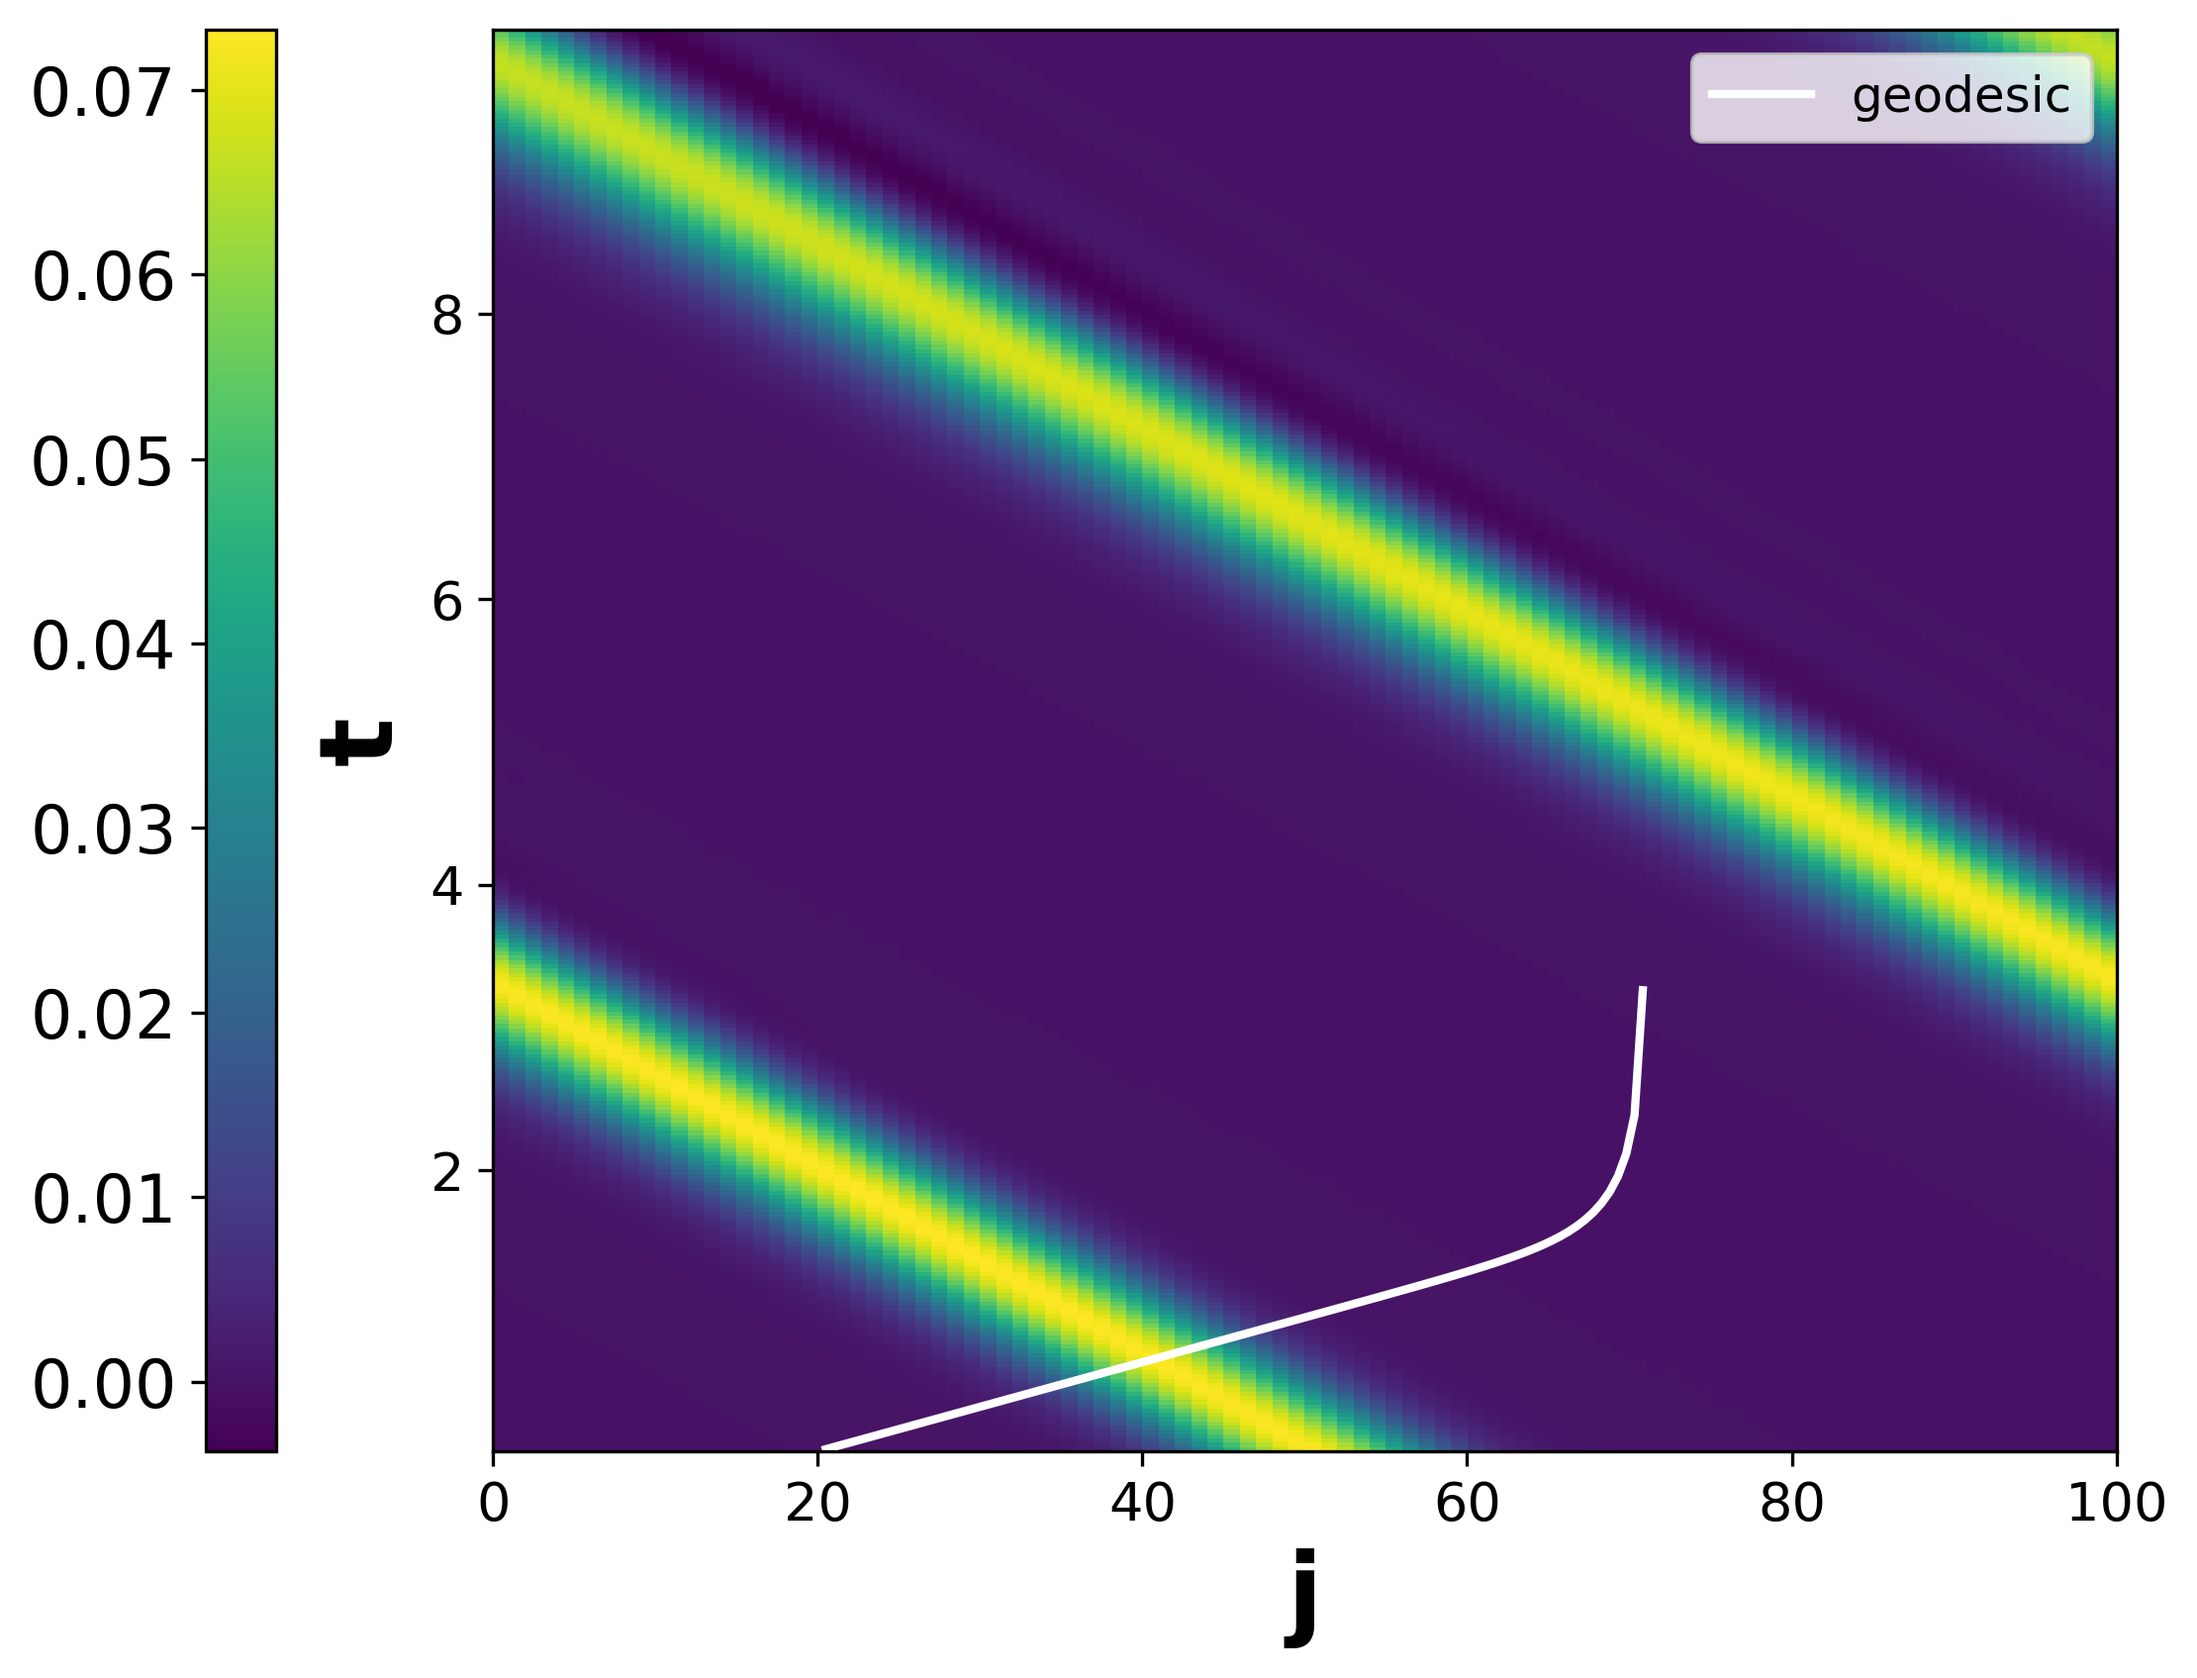
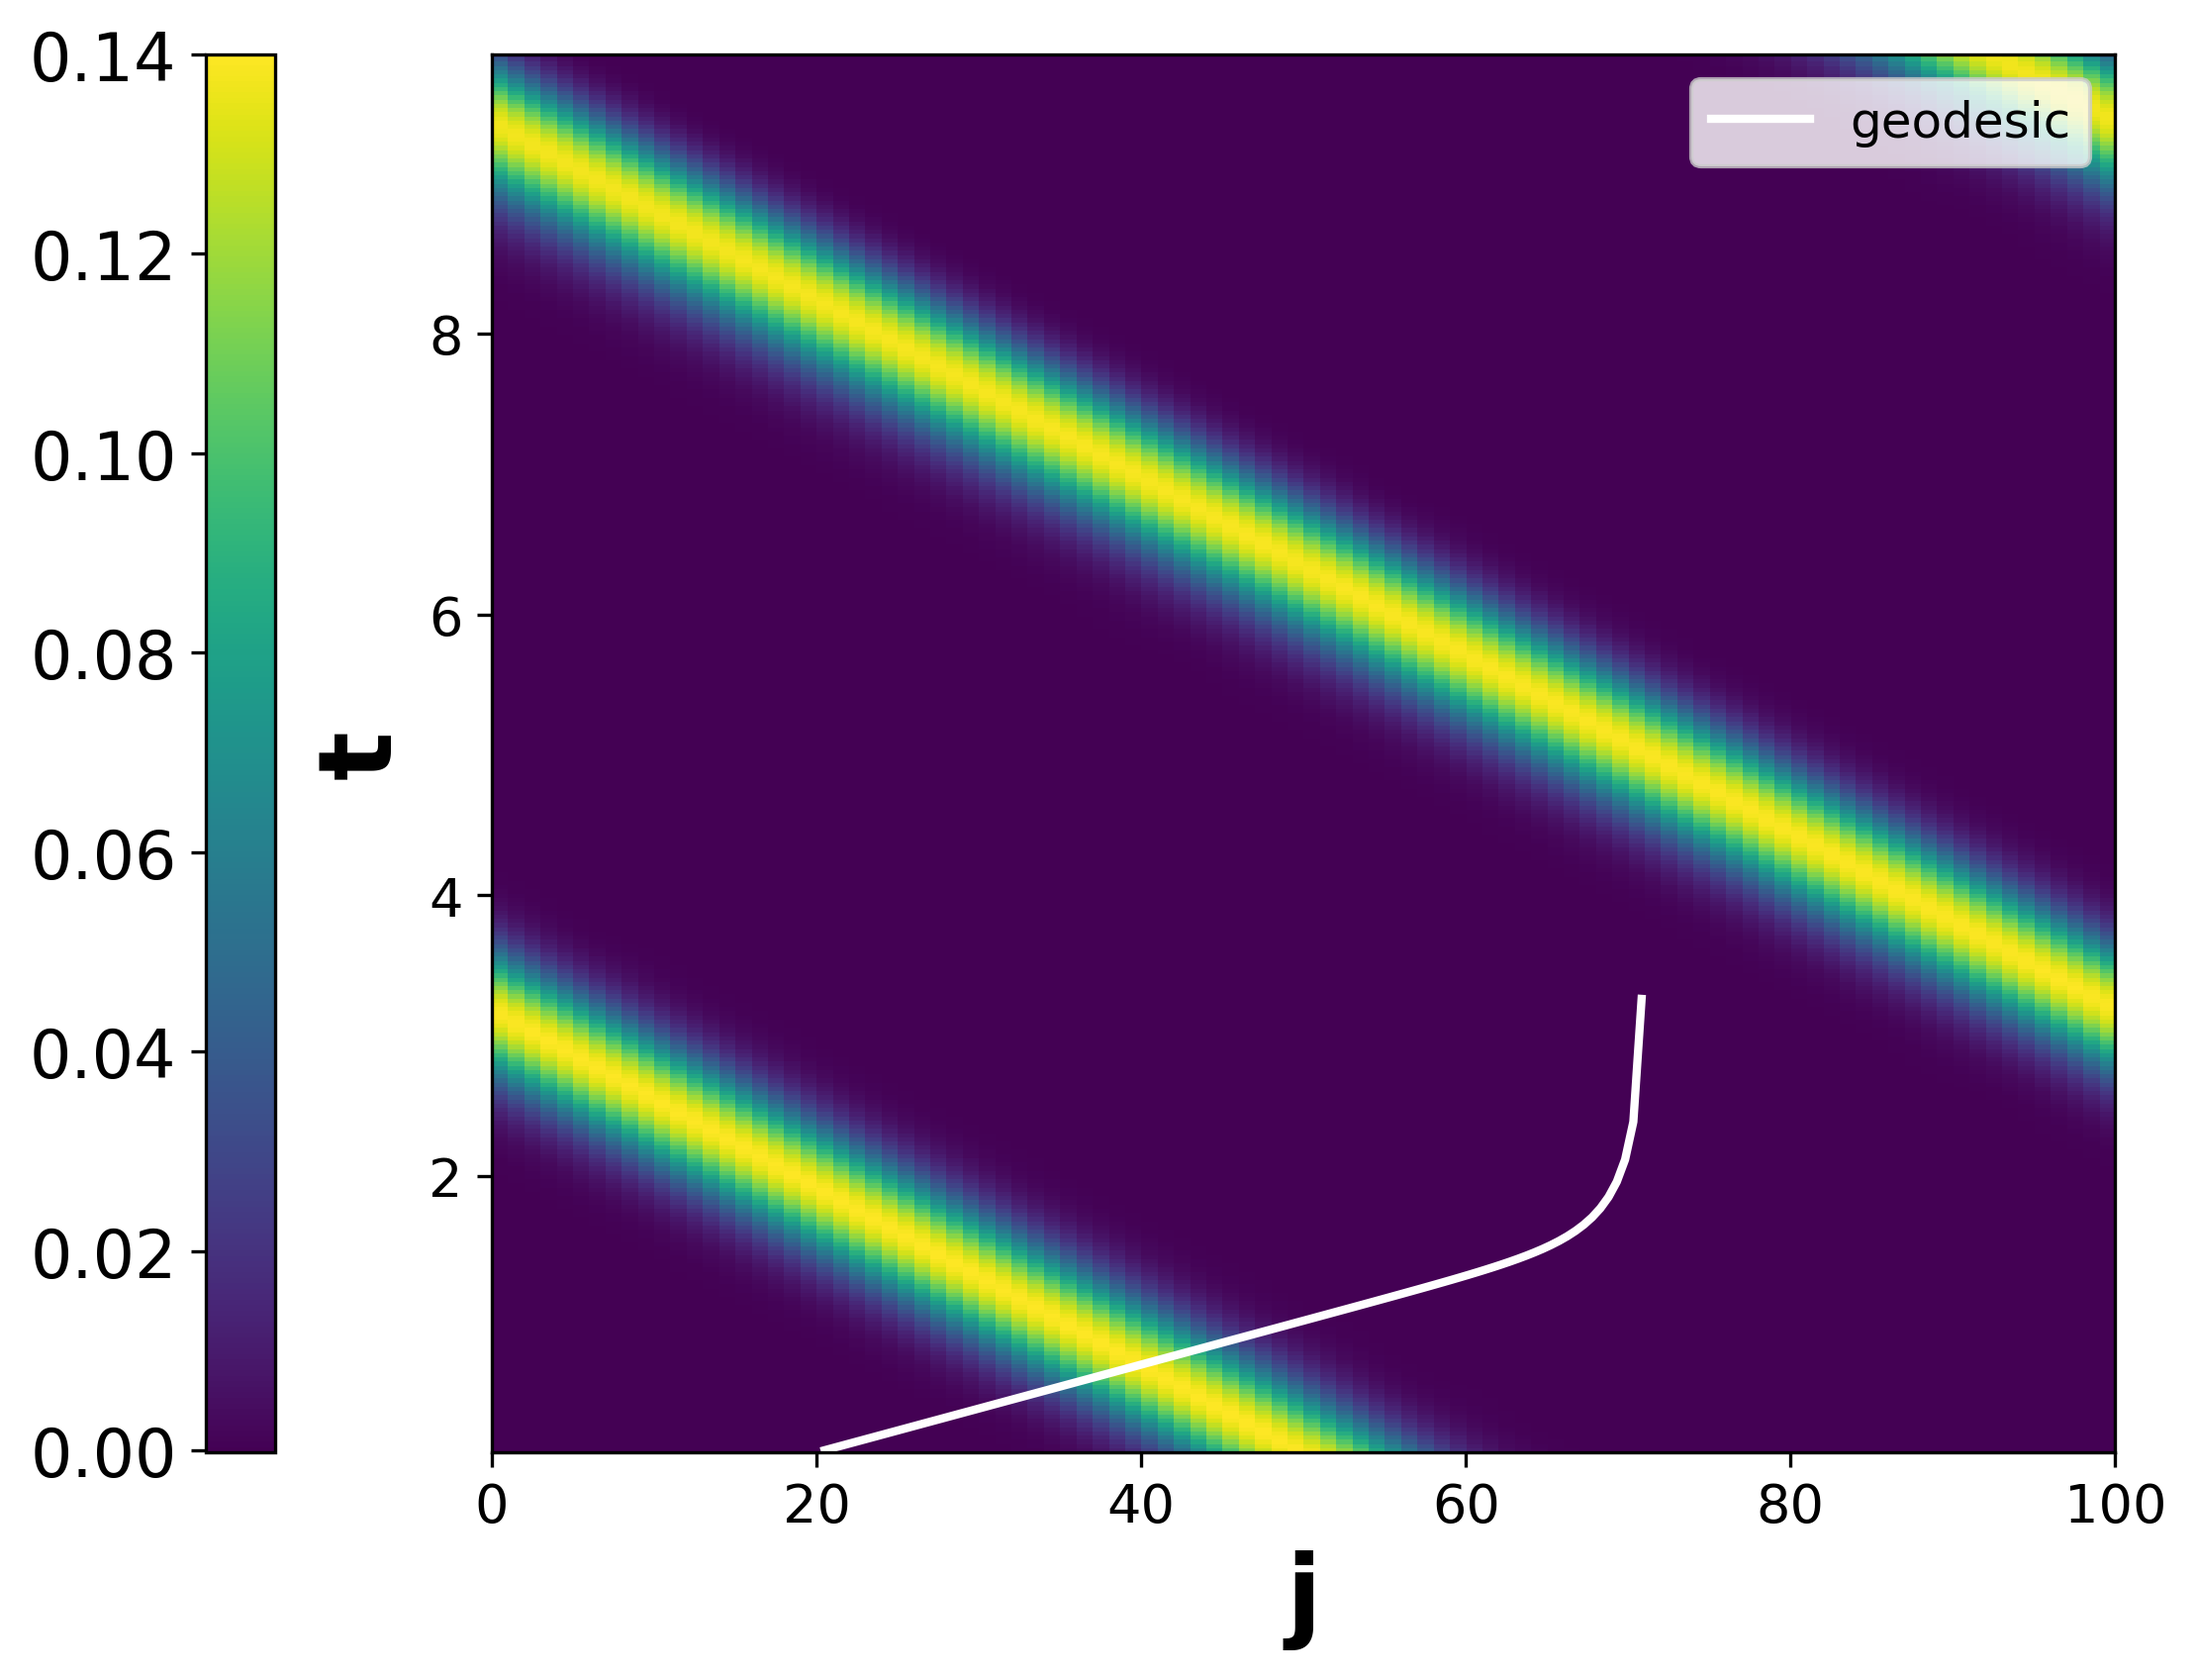
位相固定を追加

diff --git a/painleve.py b/painleve.py
@@ -115,6 +115,12 @@ eigenvectors = V
 eigenvalues = np.concatenate((eigenvalues[L:], eigenvalues[:L][::-1]), 0)
 eigenvectors = np.concatenate((eigenvectors[:,L:], eigenvectors[:,:L][:,::-1]), 1)
 
+#絶対値最大成分の位相を基準に揃える（要確認）
+idx_max = np.argmax(np.abs(eigenvectors), axis=0)
+phases = np.angle(eigenvectors[idx_max, np.arange(eigenvectors.shape[1])])
+phase_factors = np.exp(-1j * phases)
+eigenvectors = eigenvectors * phase_factors
+
 # #粒子-反粒子対称性の確認(確認済み)
 # for j in range(L):
 #     print(eigenvectors[j,:L] - eigenvectors[j+L,L:].conj())
